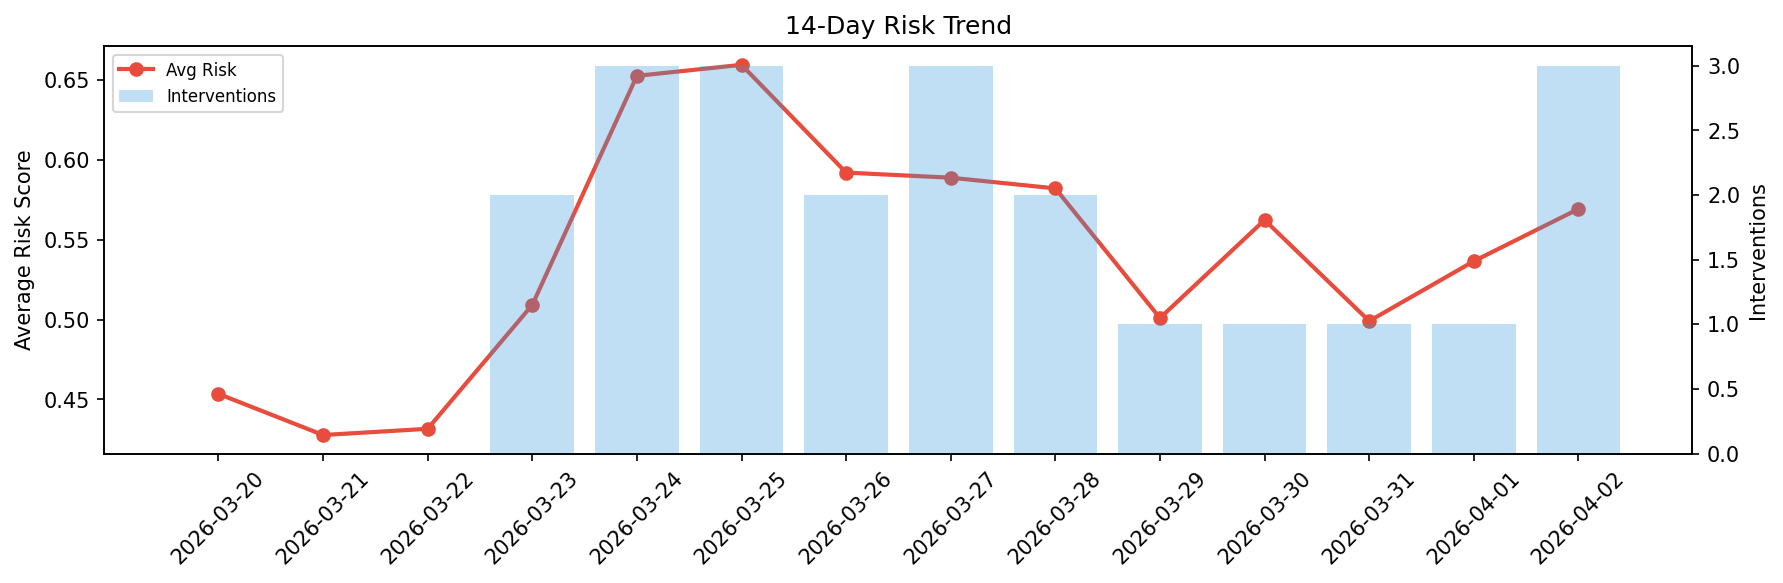
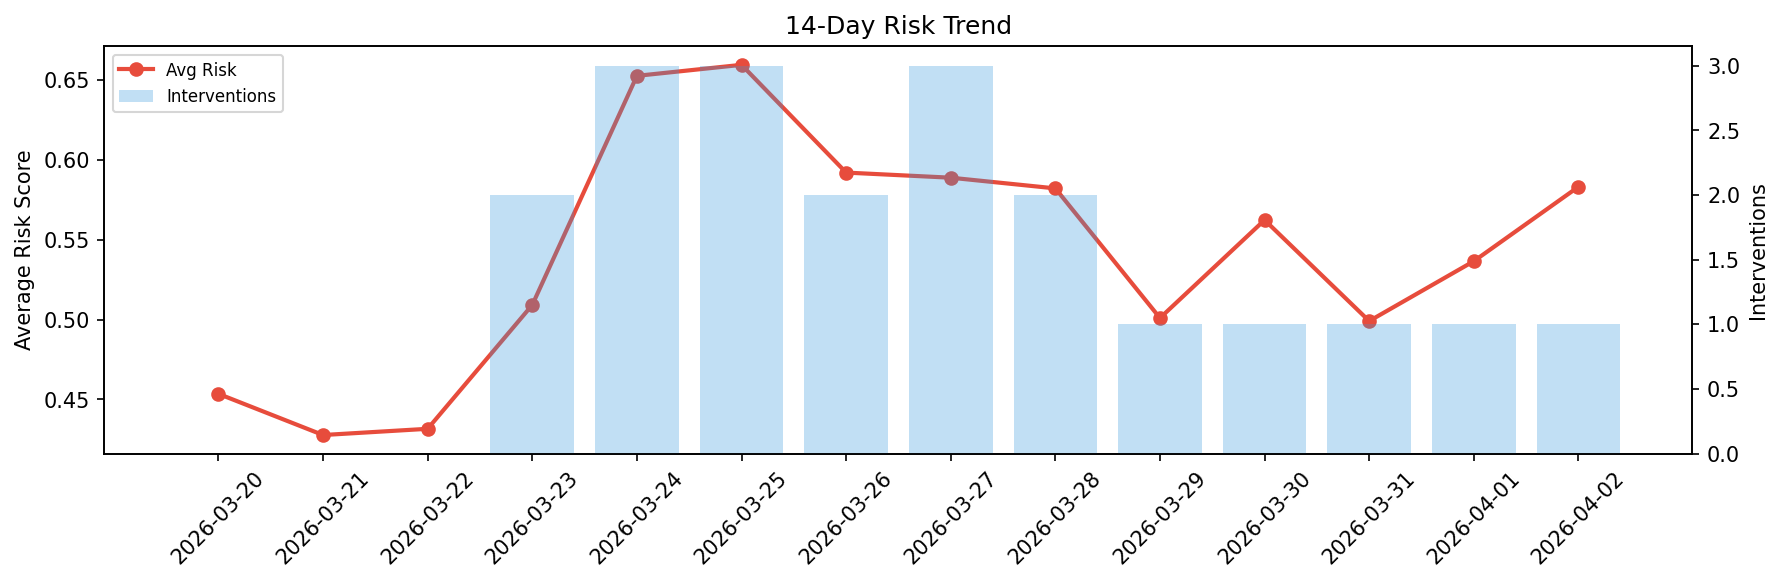
agent-improvement: daily cycle 2026-04-02T09:14

Changed region(s): [[0.8329, 0.0926, 0.9254, 0.5557]]

diff --git a/logs/2026-04-02.md b/logs/2026-04-02.md
@@ -1,6 +1,6 @@
 # Agent Improvement Report — 2026-04-02
 
-**Cycle ID:** `fc5c53d1` | **Avg Risk:** 0.5693 | **Interventions:** 3/4
+**Cycle ID:** `4b3a98a4` | **Avg Risk:** 0.5832 | **Interventions:** 1/4
 
 ![Dashboard](2026-04-02_dashboard.png)
 
@@ -10,18 +10,18 @@
 
 | Domain | Risk Score | Decision | Alerts |
 |--------|-----------|----------|--------|
-| code_review | 0.6024 | intervene | complexity, duplication |
-| incident_response | 0.6264 | intervene | severity, mttr |
-| data_pipeline | 0.4301 | monitor | freshness |
-| deployment | 0.6182 | intervene | none |
+| code_review | 0.4097 | monitor | duplication |
+| incident_response | 0.3948 | monitor | severity |
+| data_pipeline | 0.5873 | monitor | none |
+| deployment | 0.9409 | intervene | rollback_rate, canary_error, latency_p99 |
 
 ## Delta vs Yesterday
 
 | Domain | Today | Yesterday | Change |
 |--------|-------|-----------|--------|
-| code_review | 0.6024 | 0.3636 | 📈 65.7% |
-| incident_response | 0.6264 | 0.5102 | 📈 22.8% |
-| data_pipeline | 0.4301 | 0.5632 | 📉 -23.6% |
-| deployment | 0.6182 | 0.7096 | 📉 -12.9% |
+| code_review | 0.4097 | 0.3636 | 📈 12.7% |
+| incident_response | 0.3948 | 0.5102 | 📉 -22.6% |
+| data_pipeline | 0.5873 | 0.5632 | 📈 4.3% |
+| deployment | 0.9409 | 0.7096 | 📈 32.6% |
 
 **Refinement:** `{'adjustment': 'tighten_thresholds', 'trend': 'degrading', 'window': 4}`
